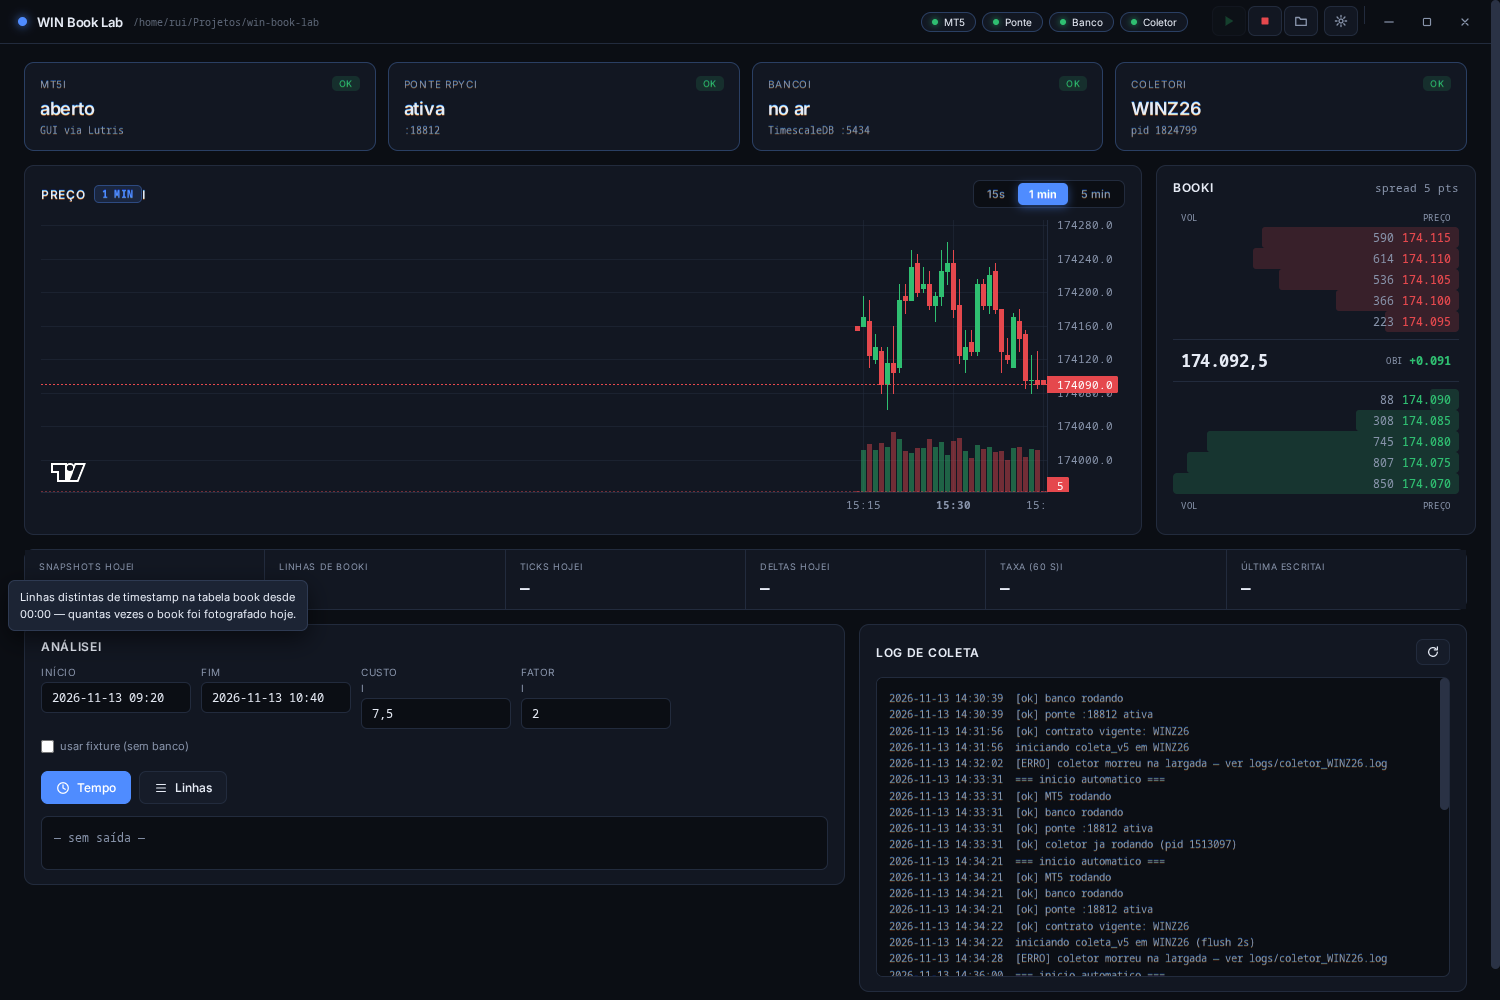
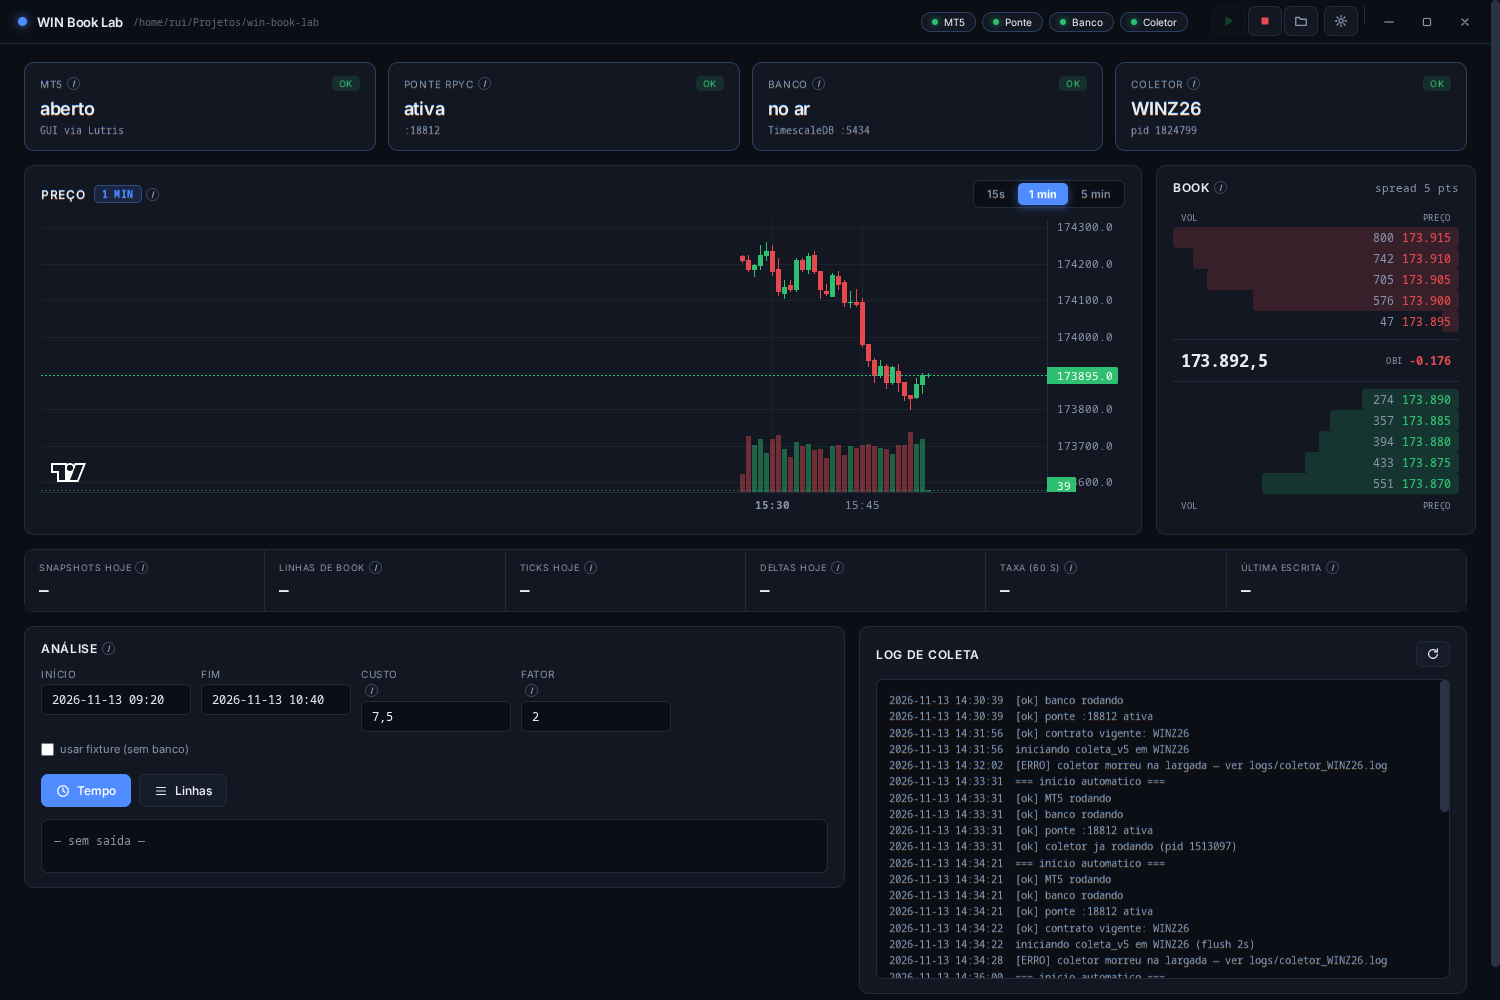
Restaura o icone de informacao (apagado por um regex meu)
O dono mandou "icone sumiu". Era literal: os 15 <span class="info">i</span>
continuavam no HTML, mas a regra CSS .info nao existia mais — renderizavam como
texto puro, quase invisivel.

CAUSA
  Ao remover as regras de tooltip (::after), usei um regex que ia de
  "/* TOOLTIPS */" ate "/* CARDS */". O bloco da classe .info morava DENTRO
  dessa faixa e foi apagado junto. Nenhum teste pegou porque nao havia teste
  de estilo: o DOM continuava com os 15 elementos, entao qualquer contagem
  de elementos passava.

CORRECAO
  Bloco .info restaurado, agora em secao propria e comentada, longe das regras
  de tooltip — para nao ser arrastado na proxima limpeza.

TESTE (novo, versionado em app/teste-ui/)
  Mede o estilo computado, nao a existencia no DOM:
    PASS  15 icones com dimensao 13x13
    PASS  borda 1px solid e raio 50% (o circulo voltou)
    PASS  15 renderizados dentro da viewport

TAMBEM VERSIONEI OS TESTES DE UI
  app/teste-ui/{tooltip,icones,config,timeframes,taxa}.js + README.
  Eles rodam contra o app com --remote-debugging-port=9222 e medem o EFEITO
  (getBoundingClientRect, getComputedStyle, time dos candles) em vez da
  intencao (presenca de classe). Foi essa diferenca que deixou passar tanto o
  tooltip cortado quanto o icone apagado.

diff --git a/app/teste-ui/config.js b/app/teste-ui/config.js
@@ -1,0 +1,83 @@
+const http=require('http');
+const get=p=>new Promise((r,j)=>{http.get({host:'127.0.0.1',port:9222,path:p},x=>{let d='';x.on('data',c=>d+=c);x.on('end',()=>r(JSON.parse(d)))}).on('error',j)});
+const sleep=ms=>new Promise(r=>setTimeout(r,ms));
+(async()=>{
+  const t=await get('/json'); const pg=t.find(x=>x.type==='page');
+  const ws=new WebSocket(pg.webSocketDebuggerUrl); let id=0; const pend=new Map();
+  ws.onmessage=e=>{const m=JSON.parse(e.data); if(m.id&&pend.has(m.id)){pend.get(m.id)(m);pend.delete(m.id);}};
+  const send=(me,pa={})=>new Promise(r=>{const i=++id;pend.set(i,r);ws.send(JSON.stringify({id:i,method:me,params:pa}));});
+  await new Promise(r=>ws.onopen=r);
+  const ev=async x=>{const r=await send('Runtime.evaluate',{expression:x,returnByValue:true,awaitPromise:true});
+    if(r.result?.exceptionDetails) return '<<EXC: '+(r.result.exceptionDetails.exception?.description||'').slice(0,150)+'>>';
+    return r.result?.result?.value;};
+  await send('Page.reload',{ignoreCache:true});
+  await sleep(6000);
+  for(let i=0;i<40;i++){ if(await ev('window.__ready===true')) break; await sleep(500); }
+
+  let falhas=0;
+  const ok=(c,n,d='')=>{console.log(`  ${c?'PASS':'FALHA'}  ${n}${d?'  -> '+d:''}`); if(!c)falhas++;};
+
+  console.log('== 1. TOOLTIP NAO VAZA ==');
+  const ttCheck = await ev(`(async () => {
+    const out=[];
+    for (const el of [...document.querySelectorAll('[data-tip]')]) {
+      el.dispatchEvent(new MouseEvent('mouseover',{bubbles:true}));
+      await new Promise(r=>setTimeout(r,25));
+      const tt=document.getElementById('tt');
+      const r=tt.getBoundingClientRect();
+      out.push({id: el.id||el.className.split(' ')[0], ok: r.left>=0 && r.right<=window.innerWidth && r.top>=0 && r.bottom<=window.innerHeight, left:Math.round(r.left), right:Math.round(r.right)});
+      el.dispatchEvent(new MouseEvent('mouseout',{bubbles:true,relatedTarget:document.body}));
+      await new Promise(r=>setTimeout(r,10));
+    }
+    return JSON.stringify(out);
+  })()`);
+  const arr = JSON.parse(ttCheck);
+  const fora = arr.filter(x=>!x.ok);
+  ok(fora.length === 0, `os ${arr.length} tooltips ficam dentro da janela`, fora.length ? JSON.stringify(fora.slice(0,3)) : 'clamp ok');
+  ok(Math.min(...arr.map(x=>x.left)) >= 0, 'nenhum cortado na esquerda', 'menor left=' + Math.min(...arr.map(x=>x.left)));
+  ok(Math.max(...arr.map(x=>x.right)) <= 1500, 'nenhum cortado na direita', 'maior right=' + Math.max(...arr.map(x=>x.right)));
+
+  console.log('\n== 2. MODAL DE CONFIGURACOES ==');
+  ok(await ev(`document.getElementById('modal-config').classList.contains('aberto')`) === false, 'comeca fechado');
+  await ev(`document.getElementById('btn-config').click()`);
+  await sleep(300);
+  ok(await ev(`document.getElementById('modal-config').classList.contains('aberto')`), 'abre ao clicar na engrenagem');
+  const campos = await ev(`JSON.stringify(['cfg-grafico','cfg-book','cfg-metricas','cfg-tf','cfg-custo','cfg-fator'].map(i=>!!document.getElementById(i)))`);
+  ok(!campos.includes('false'), 'todos os campos existem', campos);
+
+  console.log('\n== 3. SALVAR APLICA ==');
+  await ev(`document.getElementById('cfg-grafico').value='100'`);
+  await ev(`document.getElementById('cfg-tf').value='120:300'`);
+  await ev(`document.getElementById('cfg-custo').value='5'`);
+  await ev(`document.getElementById('cfg-salvar').click()`);
+  await sleep(600);
+  ok(await ev(`document.getElementById('modal-config').classList.contains('aberto')`) === false, 'fecha ao salvar');
+  ok(await ev(`cfg.grafico`) === 100, 'cfg.grafico salvo', String(await ev('cfg.grafico')));
+  ok(await ev(`JSON.parse(localStorage.getItem('winbooklab.cfg')).grafico`) === 100, 'persistiu no localStorage');
+  ok(await ev(`document.getElementById('f-custo').value`) === '5', 'custo aplicado no painel');
+  await sleep(3000);
+  ok(await ev(`candleSeries.data()[1].time - candleSeries.data()[0].time`) === 300, 'timeframe 5min aplicado');
+
+  console.log('\n== 4. NOVA CADENCIA ==');
+  await ev(`window.__u=0;
+    (function(){const a=candleSeries.setData.bind(candleSeries); candleSeries.setData=function(d){window.__u++;return a(d)}})();
+    (function(){const b=candleSeries.update.bind(candleSeries); candleSeries.update=function(c){window.__u++;return b(c)}})();`);
+  await sleep(3000);
+  const u = await ev('window.__u');
+  const taxa = u/3;
+  ok(taxa >= 8, 'grafico a 10x/s', `${taxa.toFixed(1)}/s`);
+
+  console.log('\n== 5. ESC FECHA ==');
+  await ev(`document.getElementById('btn-config').click()`); await sleep(200);
+  await ev(`document.dispatchEvent(new KeyboardEvent('keydown',{key:'Escape'}))`); await sleep(200);
+  ok(await ev(`document.getElementById('modal-config').classList.contains('aberto')`) === false, 'Esc fecha');
+
+  // volta ao padrao
+  await ev(`localStorage.removeItem('winbooklab.cfg')`);
+
+  console.log('\n== 6. ERROS ==');
+  ok((await ev('JSON.stringify(window.__erros||[])')) === '[]', 'zero erro JS', await ev('JSON.stringify(window.__erros||[])'));
+
+  console.log(`\n${falhas===0?'CONFIG OK':falhas+' FALHA(S)'}`);
+  ws.close(); process.exit(falhas===0?0:1);
+})().catch(e=>{console.error(e.message);process.exit(1)});

diff --git a/app/teste-ui/tooltip.js b/app/teste-ui/tooltip.js
@@ -1,0 +1,60 @@
+const http=require('http');
+const get=p=>new Promise((r,j)=>{http.get({host:'127.0.0.1',port:9222,path:p},x=>{let d='';x.on('data',c=>d+=c);x.on('end',()=>r(JSON.parse(d)))}).on('error',j)});
+const sleep=ms=>new Promise(r=>setTimeout(r,ms));
+(async()=>{
+  const t=await get('/json'); const pg=t.find(x=>x.type==='page');
+  const ws=new WebSocket(pg.webSocketDebuggerUrl); let id=0; const pend=new Map();
+  ws.onmessage=e=>{const m=JSON.parse(e.data); if(m.id&&pend.has(m.id)){pend.get(m.id)(m);pend.delete(m.id);}};
+  const send=(me,pa={})=>new Promise(r=>{const i=++id;pend.set(i,r);ws.send(JSON.stringify({id:i,method:me,params:pa}));});
+  await new Promise(r=>ws.onopen=r);
+  const ev=async x=>{const r=await send('Runtime.evaluate',{expression:x,returnByValue:true,awaitPromise:true});
+    if(r.result?.exceptionDetails) return 'EXC: '+(r.result.exceptionDetails.exception?.description||'').slice(0,120);
+    return r.result?.result?.value;};
+  for(let i=0;i<30;i++){ if(await ev('window.__ready===true')) break; await sleep(500); }
+
+  // percorre todos os [data-tip]: dispara mouseover, mede o #tt, valida limites
+  const res = await ev(`(async () => {
+    const out=[];
+    const els=[...document.querySelectorAll('[data-tip]')];
+    for (const el of els) {
+      el.dispatchEvent(new MouseEvent('mouseover',{bubbles:true}));
+      await new Promise(r=>setTimeout(r,30));
+      const tt=document.getElementById('tt');
+      const r=tt.getBoundingClientRect();
+      const er=el.getBoundingClientRect();
+      out.push({
+        id: el.id || el.className.split(' ')[0] || el.tagName,
+        visivel: tt.classList.contains('on'),
+        left: Math.round(r.left), right: Math.round(r.right),
+        top: Math.round(r.top), bottom: Math.round(r.bottom),
+        w: Math.round(r.width), h: Math.round(r.height),
+        // dentro da janela?
+        ok: r.left >= 0 && r.right <= window.innerWidth && r.top >= 0 && r.bottom <= window.innerHeight,
+        janela: window.innerWidth+'x'+window.innerHeight
+      });
+      el.dispatchEvent(new MouseEvent('mouseout',{bubbles:true,relatedTarget:document.body}));
+      await new Promise(r=>setTimeout(r,10));
+    }
+    return JSON.stringify(out);
+  })()`);
+
+  let falhas=0;
+  const lista = JSON.parse(res);
+  console.log(`  testados: ${lista.length} elementos com tooltip\n`);
+  for (const it of lista) {
+    if (!it.visivel) { console.log(`  FALHA ${it.id}: tooltip nao apareceu`); falhas++; continue; }
+    if (!it.ok) { console.log(`  FALHA ${it.id}: SAIU DA TELA  left=${it.left} right=${it.right} top=${it.top} bottom=${it.bottom} (janela ${it.janela})`); falhas++; }
+  }
+  if (falhas===0) console.log('  PASS  todos os tooltips ficaram dentro da janela');
+
+  // mostra os dois extremos
+  const esq = lista.reduce((a,b)=>a.left<b.left?a:b);
+  const dir = lista.reduce((a,b)=>a.right>b.right?a:b);
+  const baixo = lista.reduce((a,b)=>a.bottom>b.bottom?a:b);
+  console.log(`\n  mais a esquerda : ${esq.id} -> left=${esq.left}`);
+  console.log(`  mais a direita  : ${dir.id} -> right=${dir.right} (janela ${dir.janela})`);
+  console.log(`  mais embaixo    : ${baixo.id} -> bottom=${baixo.bottom}`);
+
+  console.log(`\n${falhas===0?'TOOLTIPS OK':falhas+' FALHA(S)'}`);
+  ws.close(); process.exit(falhas===0?0:1);
+})().catch(e=>{console.error(e.message);process.exit(1)});

diff --git a/app/teste-ui/taxa.js b/app/teste-ui/taxa.js
@@ -1,0 +1,59 @@
+const http=require('http');
+const get=p=>new Promise((r,j)=>{http.get({host:'127.0.0.1',port:9222,path:p},x=>{let d='';x.on('data',c=>d+=c);x.on('end',()=>r(JSON.parse(d)))}).on('error',j)});
+const sleep=ms=>new Promise(r=>setTimeout(r,ms));
+(async()=>{
+  const t=await get('/json'); const pg=t.find(x=>x.type==='page');
+  const ws=new WebSocket(pg.webSocketDebuggerUrl); let id=0; const pend=new Map();
+  ws.onmessage=e=>{const m=JSON.parse(e.data); if(m.id&&pend.has(m.id)){pend.get(m.id)(m);pend.delete(m.id);}};
+  const send=(me,pa={})=>new Promise(r=>{const i=++id;pend.set(i,r);ws.send(JSON.stringify({id:i,method:me,params:pa}));});
+  await new Promise(r=>ws.onopen=r);
+  const ev=async x=>{const r=await send('Runtime.evaluate',{expression:x,returnByValue:true,awaitPromise:true});
+    if(r.result?.exceptionDetails) return null; return r.result?.result?.value;};
+  for(let i=0;i<40;i++){ if(await ev('window.__ready===true')) break; await sleep(500); }
+
+  let falhas=0;
+  const ok=(c,n,d='')=>{console.log(`  ${c?'PASS':'FALHA'}  ${n}${d?'  -> '+d:''}`); if(!c)falhas++;};
+
+  console.log('== 1. BOTOES NO HEADER ==');
+  const noHeader = await ev(`document.querySelectorAll('.titlebar #btn-start, .titlebar #btn-stop, .titlebar #btn-log').length`);
+  ok(noHeader === 3, 'os 3 botoes estao na titlebar', String(noHeader));
+  ok(await ev(`document.querySelector('main .toolbar .iconbtn#btn-start') === null`), 'faixa antiga removida');
+  const h = await ev(`document.querySelector('.titlebar').getBoundingClientRect().height`);
+  ok(h <= 50, 'header compacto', h+'px');
+
+  console.log('\n== 2. TAXA DO GRAFICO (alvo 5x/s) ==');
+  await ev(`
+    window.__upd = 0;
+    (function(){ const o = candleSeries.setData.bind(candleSeries);
+      candleSeries.setData = function(d){ window.__upd++; return o(d); }; })();
+    (function(){ const o2 = candleSeries.update.bind(candleSeries);
+      candleSeries.update = function(c){ window.__upd++; return o2(c); }; })();
+  `);
+  // conta o numero de vezes que o grafico recebe dado em 4s
+  const t0 = Date.now();
+  await sleep(4000);
+  const ups = await ev('window.__upd');
+  const taxa = ups / ((Date.now()-t0)/1000);
+  ok(taxa >= 3.5, 'grafico recebe >= 3,5 atualizacoes/s', `${taxa.toFixed(1)}/s (${ups} em 4s)`);
+
+  console.log('\n== 3. TAXA DO BOOK ==');
+  await ev(`window.__paint = 0; (function(){const o=paintBook; window.paintBook=function(b){window.__paint++; return o(b);};})();`);
+  const t1 = Date.now();
+  await sleep(4000);
+  const p = await ev('window.__paint');
+  const taxaBook = p / ((Date.now()-t1)/1000);
+  ok(taxaBook >= 2, 'book repinta >= 2x/s', `${taxaBook.toFixed(1)}/s`);
+
+  console.log('\n== 4. DADO FRESCO NA TELA ==');
+  const a = await ev('document.getElementById("m-last").textContent');
+  await sleep(2500);
+  const b = await ev('document.getElementById("m-last").textContent');
+  console.log(`   ultima escrita: ${a} -> ${b}`);
+  ok(a !== '—', 'ultima escrita preenchida', b);
+
+  console.log('\n== 5. ERROS ==');
+  ok((await ev('JSON.stringify(window.__erros||[])')) === '[]', 'zero erro JS');
+
+  console.log(`\n${falhas===0?'OK':falhas+' FALHA(S)'}`);
+  ws.close(); process.exit(falhas===0?0:1);
+})().catch(e=>{console.error(e.message);process.exit(1)});

diff --git a/app/teste-ui/timeframes.js b/app/teste-ui/timeframes.js
@@ -1,0 +1,64 @@
+const http=require('http');
+const get=p=>new Promise((r,j)=>{http.get({host:'127.0.0.1',port:9222,path:p},x=>{let d='';x.on('data',c=>d+=c);x.on('end',()=>r(JSON.parse(d)))}).on('error',j)});
+const sleep=ms=>new Promise(r=>setTimeout(r,ms));
+(async()=>{
+  const t=await get('/json'); const pg=t.find(x=>x.type==='page');
+  const ws=new WebSocket(pg.webSocketDebuggerUrl); let id=0; const pend=new Map();
+  ws.onmessage=e=>{const m=JSON.parse(e.data); if(m.id&&pend.has(m.id)){pend.get(m.id)(m);pend.delete(m.id);}};
+  const send=(me,pa={})=>new Promise(r=>{const i=++id;pend.set(i,r);ws.send(JSON.stringify({id:i,method:me,params:pa}));});
+  await new Promise(r=>ws.onopen=r);
+  const ev=async x=>{const r=await send('Runtime.evaluate',{expression:x,returnByValue:true,awaitPromise:true});
+    if(r.result?.exceptionDetails) return null; return r.result?.result?.value;};
+
+  for(let i=0;i<40;i++){ if(await ev('window.__ready===true')) break; await sleep(500); }
+
+  let falhas=0;
+  const ok=(c,n,d='')=>{console.log(`  ${c?'PASS':'FALHA'}  ${n}${d?'  -> '+d:''}`); if(!c)falhas++;};
+
+  const passoAtual = async () => {
+    const d = await ev('JSON.stringify(candleSeries.data().map(c=>c.time).slice(-4))');
+    try { const a=JSON.parse(d); return a.length>1 ? a[1]-a[0] : 0; } catch { return 0; }
+  };
+  const nVelas = async () => await ev('candleSeries.data().length');
+
+  // espera o passo do grafico virar o esperado (ate 8s)
+  const esperaPasso = async (esperado) => {
+    for (let i=0;i<40;i++){
+      if (await passoAtual() === esperado) return true;
+      await sleep(200);
+    }
+    return false;
+  };
+
+  const TF = [['10','15s',15],['30','1min',60],['120','5min',300]];
+
+  console.log('== troca simples, com espera ==');
+  for (const [min,rot,bucket] of TF) {
+    await ev(`document.querySelector('#tf button[data-min="${min}"]').click()`);
+    const virou = await esperaPasso(bucket);
+    const n = await nVelas();
+    ok(virou, `${rot}: grafico mudou para passo de ${bucket}s`, `${n} velas, passo ${await passoAtual()}s`);
+  }
+
+  console.log('\n== martelando: 12 trocas rapidas (100ms entre elas) ==');
+  const seq = ['10','30','120','10','120','30','120','10','30','120','30','10'];
+  for (const min of seq) {
+    await ev(`document.querySelector('#tf button[data-min="${min}"]').click()`);
+    await sleep(100);
+  }
+  const ultimo = seq[seq.length-1];
+  const bucketFinal = TF.find(x=>x[0]===ultimo)[2];
+  const chegou = await esperaPasso(bucketFinal);
+  ok(chegou, `apos 12 trocas rapidas, termina em ${bucketFinal}s`, `passo ${await passoAtual()}s, ${await nVelas()} velas`);
+
+  console.log('\n== estado final bate com o botao marcado? ==');
+  const marcado = await ev(`document.querySelector('#tf button.on').dataset.bucket`);
+  const passo = await passoAtual();
+  ok(parseInt(marcado,10) === passo, 'botao marcado == passo do grafico', `botao ${marcado}s | grafico ${passo}s`);
+
+  console.log('\n== erros ==');
+  ok((await ev('JSON.stringify(window.__erros||[])')) === '[]', 'zero erro JS');
+
+  console.log(`\n${falhas===0?'TIMEFRAMES OK':falhas+' FALHA(S)'}`);
+  ws.close(); process.exit(falhas===0?0:1);
+})().catch(e=>{console.error(e.message);process.exit(1)});

diff --git a/app/teste-ui/icones.js b/app/teste-ui/icones.js
@@ -1,0 +1,49 @@
+const http=require('http'); const fs=require('fs');
+const get=p=>new Promise((r,j)=>{http.get({host:'127.0.0.1',port:9222,path:p},x=>{let d='';x.on('data',c=>d+=c);x.on('end',()=>r(JSON.parse(d)))}).on('error',j)});
+const sleep=ms=>new Promise(r=>setTimeout(r,ms));
+(async()=>{
+  const t=await get('/json'); const pg=t.find(x=>x.type==='page');
+  const ws=new WebSocket(pg.webSocketDebuggerUrl); let id=0; const pend=new Map();
+  ws.onmessage=e=>{const m=JSON.parse(e.data); if(m.id&&pend.has(m.id)){pend.get(m.id)(m);pend.delete(m.id);}};
+  const send=(me,pa={})=>new Promise(r=>{const i=++id;pend.set(i,r);ws.send(JSON.stringify({id:i,method:me,params:pa}));});
+  await new Promise(r=>ws.onopen=r);
+  const ev=async x=>(await send('Runtime.evaluate',{expression:x,returnByValue:true,awaitPromise:true})).result?.result?.value;
+  for(let i=0;i<30;i++){ if(await ev('window.__ready===true')) break; await sleep(500); }
+
+  let falhas=0;
+  const ok=(c,n,d='')=>{console.log(`  ${c?'PASS':'FALHA'}  ${n}${d?'  -> '+d:''}`); if(!c)falhas++;};
+
+  const n = await ev(`document.querySelectorAll('.info').length`);
+  ok(n === 15, 'os 15 icones de info existem no DOM', String(n));
+
+  // o icone tem tamanho visivel e borda (prova de que o CSS voltou)
+  const estilo = await ev(`(()=>{
+    const e=document.querySelector('.info');
+    const s=getComputedStyle(e); const r=e.getBoundingClientRect();
+    return JSON.stringify({w:Math.round(r.width),h:Math.round(r.height),
+      borda:s.borderTopWidth+' '+s.borderTopStyle, raio:s.borderTopLeftRadius,
+      display:s.display, visivel:r.width>0&&r.height>0,
+      cor:s.color, texto:e.textContent.trim()});
+  })()`);
+  const st = JSON.parse(estilo);
+  console.log('   estilo do .info:', estilo);
+  ok(st.visivel, 'icone tem dimensao', st.w+'x'+st.h);
+  ok(st.borda !== '0px none', 'icone tem borda (circulo)', st.borda);
+  ok(st.raio !== '0px', 'borda arredondada', st.raio);
+
+  // conta quantos estao realmente visiveis na tela
+  const visiveis = await ev(`(()=>{
+    let v=0;
+    for (const e of document.querySelectorAll('.info')) {
+      const r=e.getBoundingClientRect();
+      if (r.width>0 && r.height>0 && r.top<window.innerHeight && r.bottom>0) v++;
+    }
+    return v;
+  })()`);
+  ok(visiveis >= 12, 'icones renderizados na tela', String(visiveis));
+
+  console.log(`\n${falhas===0?'ICONE OK':falhas+' FALHA(S)'}`);
+  const r=await send('Page.captureScreenshot',{format:'png'});
+  fs.writeFileSync('/tmp/shots/icone.png', Buffer.from(r.result.data,'base64'));
+  ws.close(); process.exit(falhas===0?0:1);
+})().catch(e=>{console.error(e.message);process.exit(1)});

diff --git a/app/renderer/style.css b/app/renderer/style.css
@@ -49,6 +49,21 @@ main{padding:18px 24px 40px}
 .wbtn:hover{background:var(--panel2);color:var(--txt)}
 .wbtn.close:hover{background:var(--bad);color:#fff}
 
+
+/* ================= ICONE DE INFORMACAO ================= */
+/* Vive fora da secao de tooltips de proposito: quando as regras do ::after
+   foram removidas, este bloco foi junto e os 15 icones sumiram da tela. */
+.info{
+  display:inline-grid; place-items:center;
+  width:13px; height:13px; flex:none;
+  border:1px solid #3a465e; border-radius:50%;
+  color:var(--dim); font-size:9px; font-style:italic; font-weight:600;
+  line-height:1; vertical-align:middle; margin-left:4px;
+  cursor:help; transition:.15s; user-select:none;
+}
+.info:hover{border-color:var(--accent); color:var(--accent);
+  background:rgba(79,140,255,.12)}
+
 /* ================= CARDS ================= */
 .cards{display:grid;grid-template-columns:repeat(auto-fit,minmax(190px,1fr));
   gap:12px;margin-bottom:14px}

diff --git a/app/teste-ui/README.md b/app/teste-ui/README.md
@@ -1,0 +1,30 @@
+# Testes de UI (CDP)
+
+Rodam contra o app **já aberto** com `--remote-debugging-port=9222`. Não são
+`pytest` nem `npm test` — precisam da janela real, porque medem coisas que só
+existem na tela (posição de tooltip, cadência de redraw, retângulo de elemento).
+
+```bash
+# 1. abrir o app com porta de depuração
+./node_modules/.bin/electron . --no-sandbox \
+  --ozone-platform=wayland --remote-debugging-port=9222 &
+
+# 2. rodar cada suíte
+node teste-ui/tooltip.js      # todo tooltip tem que caber na janela
+node teste-ui/icones.js       # os 15 ícones .info têm que estar estilizados
+node teste-ui/config.js       # modal, persistência, cadência de 10x/s
+node teste-ui/timeframes.js   # troca de timeframe muda o dado, não só o botão
+node teste-ui/taxa.js         # botões no header e cadências
+```
+
+Cada script sai com código 0/1 e imprime PASS/FALHA por asserção.
+
+## Por que medir o efeito, não a intenção
+
+Um teste que checa `elemento.classList.contains('tip-inv')` passa mesmo com o
+texto cortado na tela — ele testa a *intenção*, não o *resultado*.
+
+Estes scripts medem o resultado: `getBoundingClientRect()` do tooltip contra
+`window.innerWidth`, `getComputedStyle(.info).borderTopWidth`, o `time` dos
+candles antes e depois de clicar. Foi assim que o ícone apagado e o tooltip
+cortado apareceram.
